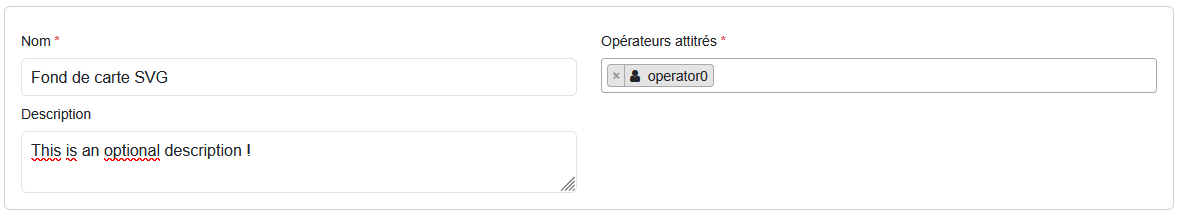
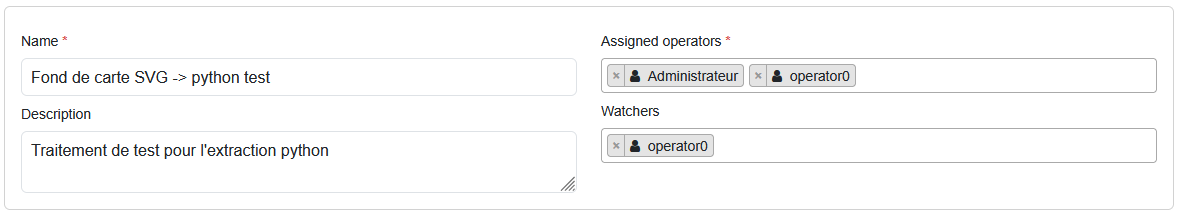
update doc

diff --git a/docs/features/architecture.md b/docs/features/architecture.md
@@ -40,7 +40,7 @@ A single database and a single schema are created, and the user who owns the sch
 
 ### Conceptual data model
 
-![data-model](../assets/dev-guide/data-model.png){width="1000"}
+[erd-data-model](../assets/dev-guide/DB_ERD.png){width="1000"}
 
 ### Data tables description
 
@@ -82,6 +82,24 @@ Table listing the processes configured in the system. It is not possible to modi
 | ``id_process`` | int | **Primary key** | *1*
 | ``name`` | varchar 255 | Process title | *Réseau de Gaz*
 | ``description`` | varchar 4000 | Optional description of the process | *Extract gas network data* |
+
+#### PROCESSES_WATCHERGROUPS
+
+Table listing the processes configured in the system. It is not possible to modify (i.e., the tasks that comprise it) a process if a related request is ONGOING. It is not possible to delete a process if a related request is incomplete or if it is associated with a connector rule.
+
+| Attribute | Type | Description | Example |
+| --- | --- | --- | --- | 
+| ``id_process`` | int | **Primary key** | *1*
+| ``id_usergroup`` | int | **Foreign key** linking to the USERGROUPS table | *1*
+
+#### PROCESSES_WATCHERS
+
+Table listing the processes configured in the system. It is not possible to modify (i.e., the tasks that comprise it) a process if a related request is ONGOING. It is not possible to delete a process if a related request is incomplete or if it is associated with a connector rule.
+
+| Attribute | Type | Description | Example |
+| --- | --- | --- | --- | 
+| ``id_process`` | int | **Primary key** | *1*
+| ``id_user`` | int | **Foreign key** linking to the USERS table | *1*
 
 #### TASKS
 

diff --git a/docs/features/admin-guide.md b/docs/features/admin-guide.md
@@ -101,7 +101,8 @@ At the top of the page, the following are defined:
 
 * The name to be given to the process in the application
 * An optional description that documents the purpose or use of the process
-* The users or user groups authorized to interact with requests associated with this process. At least one operator or user group must be specified. Administrators can interact with all requests.
+* Under Assigned operators, users or user groups authorized to interact with requests associated with this process. At least one operator or user group must be specified. Administrators can interact with all requests.
+* Under Watchers, users or user groups authorized to watch requests associated with this process. Watchers have read-only access to the requests and are automatically notified by email for every new incoming requests associated with this process (as long as notifications are enabled).
 
 #### Process tasks
 ![Processes tasks](../assets/admin-guide/processes-tasks.png){width="600"}
